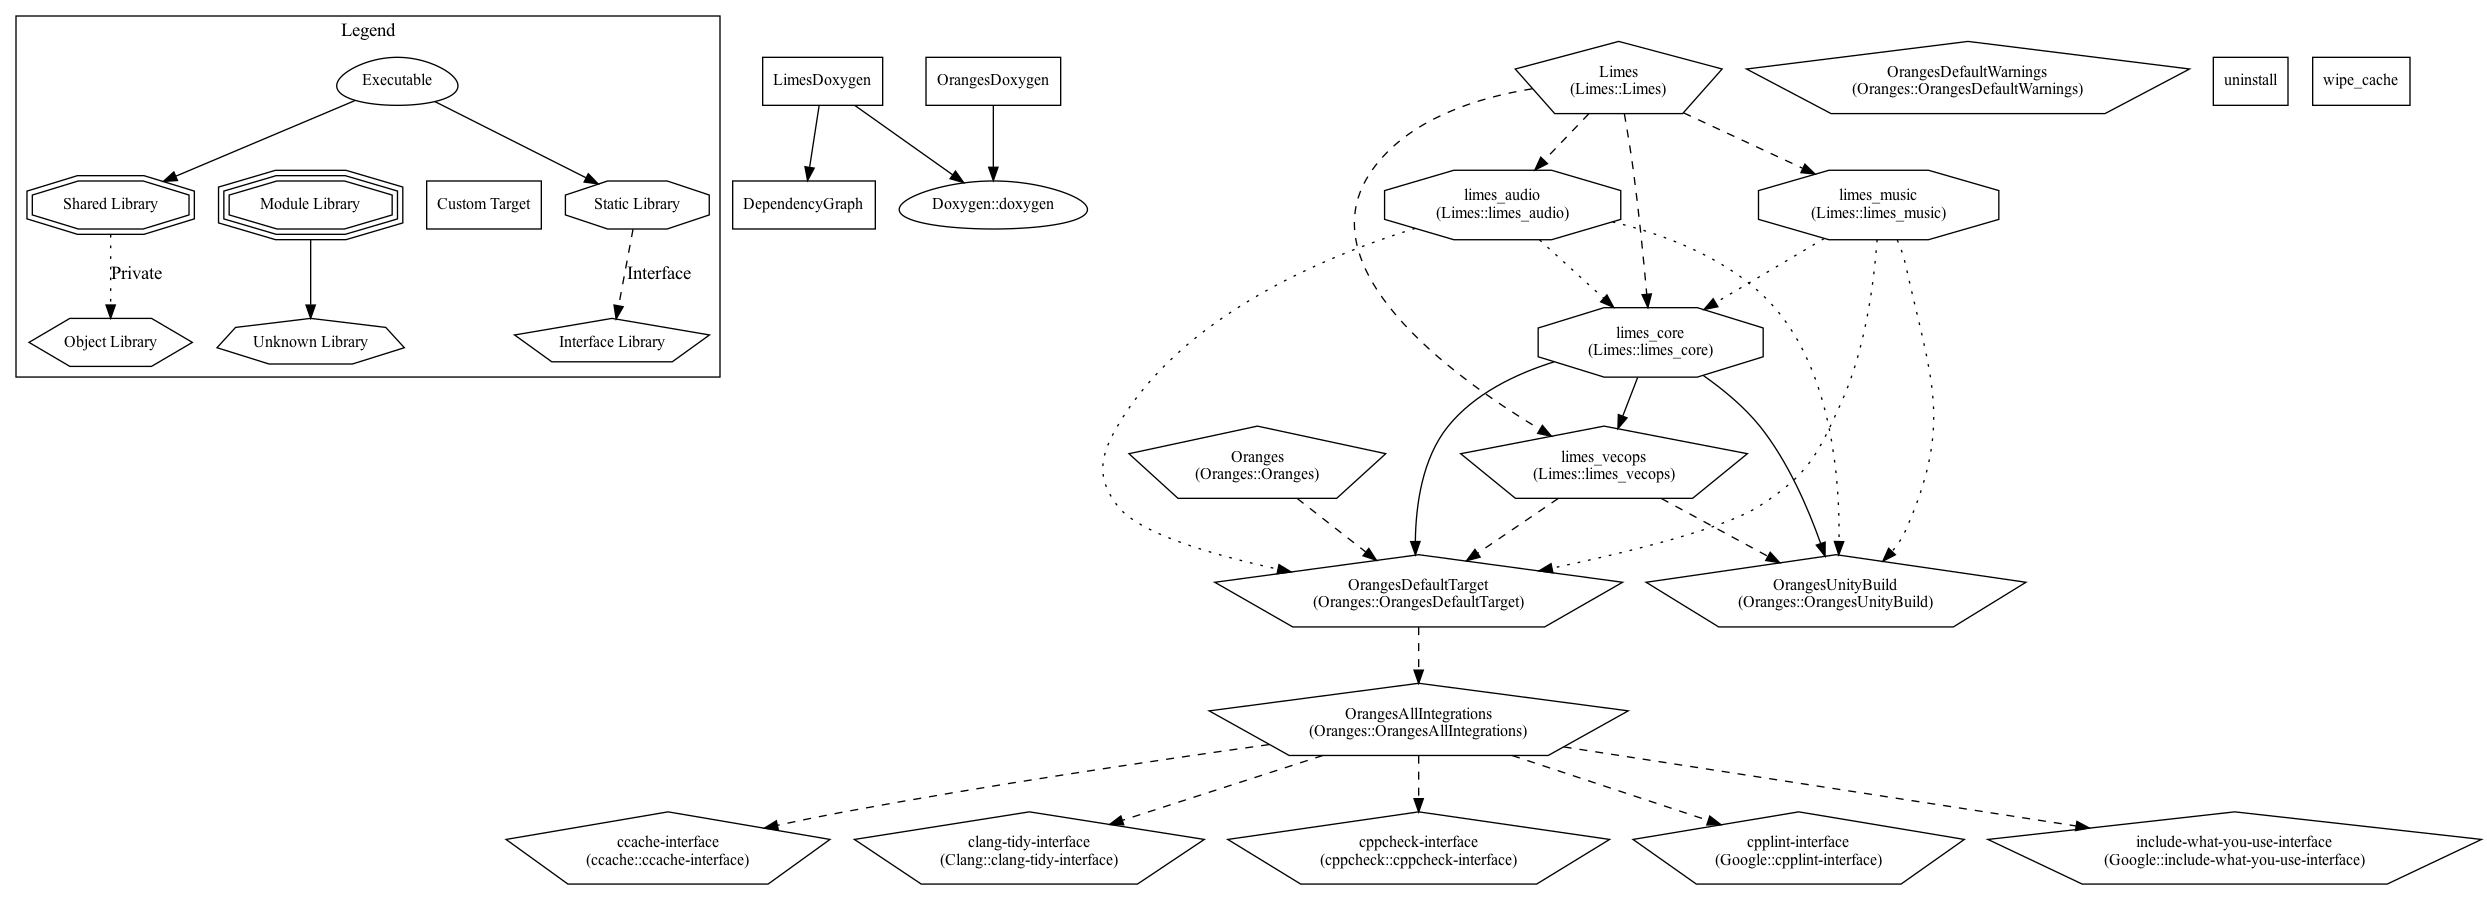
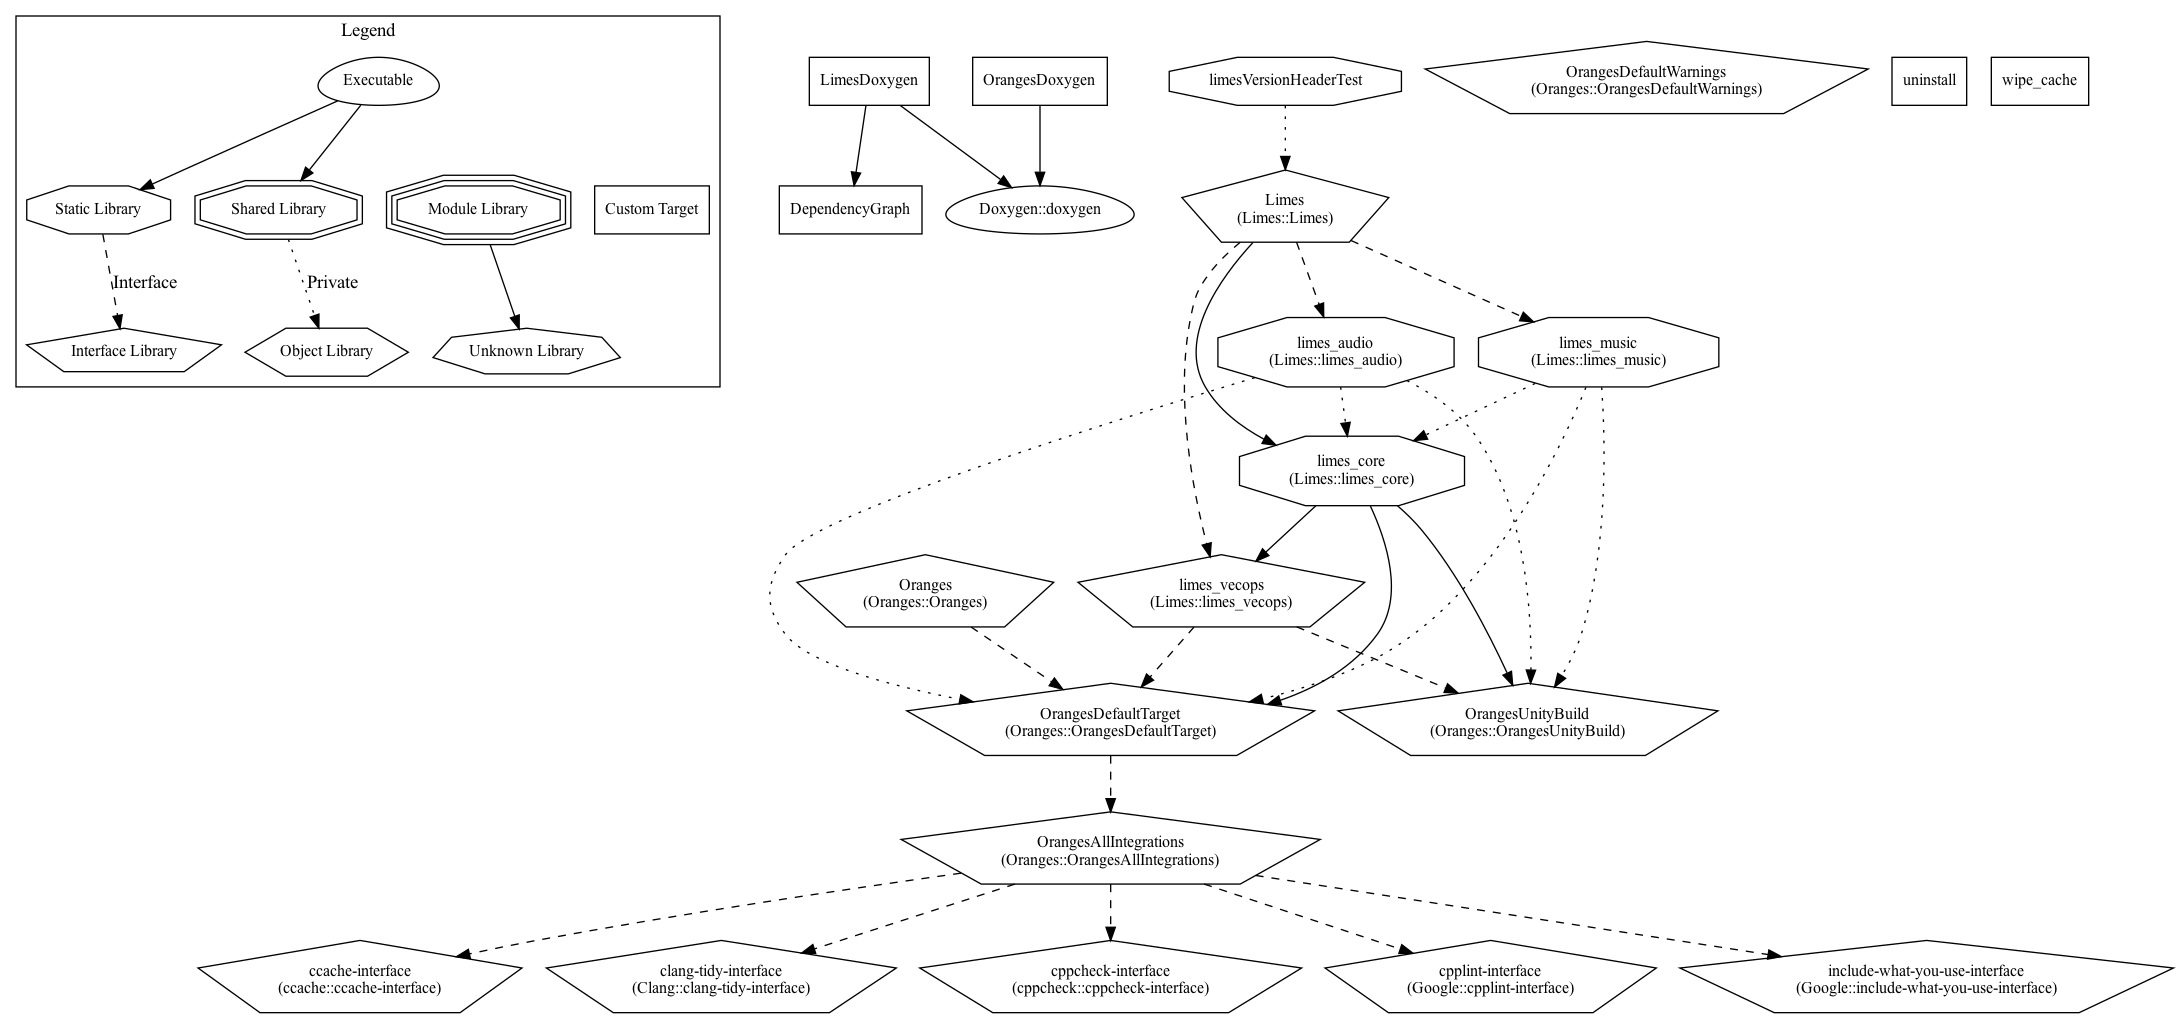
feat: added a version header test
Precommit-Verified: 5d5b633130de77f1b2b94ee685e28312c4804b26f5a3e989cad16369c83b5c84

diff --git a/cmake/scripts/version_header_test.cpp b/cmake/scripts/version_header_test.cpp
@@ -1,0 +1,18 @@
+/*
+ * ======================================================================================
+ *  __    ____  __  __  ____  ___
+ * (  )  (_  _)(  \/  )( ___)/ __)
+ *  )(__  _)(_  )    (  )__) \__ \
+ * (____)(____)(_/\/\_)(____)(___/
+ *
+ *  This file is part of the Limes open source library and is licensed under the terms of the GNU Public License.
+ *
+ * ======================================================================================
+ */
+
+#include <Limes/limes.h>
+
+static constexpr auto testVersionObj = limes::getLimesVersion();
+
+static_assert (false,
+	"major: " << testVersionObj.getMajor() << "; minor: " << testVersionObj.getMinor() << "; patch: " << testVersionObj.getPatch())
